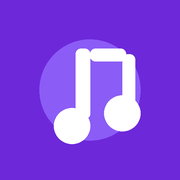
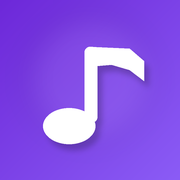
Add files via upload

diff --git a/index.html b/index.html
@@ -9,6 +9,7 @@
 <meta name="apple-mobile-web-app-title" content="ניגון">
 <link rel="manifest" href="manifest.webmanifest">
 <link rel="apple-touch-icon" sizes="180x180" href="apple-touch-icon.png">
+<link id="dynamicFavicon" rel="icon" href="icon-192.png">
 <title>ניגון — הנגן האישי שלך</title>
 <style>
 :root{
@@ -22,7 +23,7 @@ button,input,select{font:inherit}button{cursor:pointer}
 .hidden{display:none!important}.grow{flex:1}.row{display:flex;align-items:center;gap:10px}
 .auth{min-height:100vh;display:grid;place-items:center;padding:24px;background:radial-gradient(circle at 20% 10%,color-mix(in srgb,var(--accent) 24%,transparent),transparent 32%),var(--bg)}
 .authCard{width:min(480px,100%);background:var(--surface);border:1px solid var(--line);border-radius:32px;padding:24px;box-shadow:var(--shadow)}
-.logo{width:82px;height:82px;border-radius:25px;display:block;margin:auto;object-fit:cover;box-shadow:var(--shadow)}
+.logo{width:88px;height:88px;border-radius:28px;display:grid;place-items:center;margin:auto;box-shadow:var(--shadow);background:linear-gradient(145deg,var(--accent),var(--accent2));color:#fff;position:relative;overflow:hidden}.logo svg{width:62%;height:62%;filter:drop-shadow(0 5px 10px rgba(0,0,0,.14))}
 .auth h1{text-align:center;margin:14px 0 4px}.auth p{text-align:center;color:var(--muted);margin-top:0}
 .field{margin-top:12px}.field label{display:block;color:var(--muted);font-size:13px;margin-bottom:6px}.field input,.field select{width:100%;padding:13px;border:1px solid var(--line);background:var(--surface2);color:var(--text);border-radius:14px;outline:none}
 .primary{border:0;background:linear-gradient(135deg,var(--accent),var(--accent2));color:#fff;padding:13px 18px;border-radius:16px;font-weight:900}
@@ -50,15 +51,21 @@ main{max-width:1180px;margin:auto;padding:16px}
 .player{position:fixed;inset:0;z-index:70;background:var(--bg);display:none;overflow:auto;padding:calc(12px + var(--safeT)) 16px calc(20px + var(--safeB))}.player.show{display:block}.playerIn{max-width:650px;margin:auto}.playerMedia{width:min(86vw,500px);aspect-ratio:1;object-fit:cover;display:block;margin:22px auto;border-radius:32px;background:#000}.player h2{text-align:center}.seek{width:100%;accent-color:var(--accent)}.controls{display:flex;justify-content:center;align-items:center;gap:22px}.controls button{border:0;background:transparent;color:var(--text);font-size:24px}.controls .big{width:72px;height:72px;background:var(--accent);color:#fff;border-radius:50%}
 .lock{position:fixed;inset:0;z-index:100;background:#0b0810;color:#fff;display:none;place-items:center;padding:24px}.lock.show{display:grid}.lockBox{max-width:500px;text-align:center}.lockIcon{font-size:56px}.lockBox p{color:#c9c0cf;line-height:1.6}.dangerBtn{background:#b42318;color:#fff;border:0;padding:13px 18px;border-radius:16px;font-weight:900}
 .toast{position:fixed;z-index:120;top:calc(15px + var(--safeT));left:50%;transform:translateX(-50%);background:#17121d;color:#fff;border-radius:14px;padding:11px 15px;opacity:0;transition:.2s}.toast.show{opacity:1}
-@media(max-width:700px){.formGrid{grid-template-columns:1fr}.grid{grid-template-columns:repeat(2,minmax(0,1fr))}.themeChoices{grid-template-columns:1fr}.search{width:100%;order:3}.top{flex-wrap:wrap}.brand{flex:1}.hero h2{font-size:24px}}
+
+.brandWrap{display:flex;align-items:center;gap:18px;min-width:190px}.clock{direction:ltr;font-size:20px;font-weight:900;color:var(--text);margin-inline-start:auto}.avatar{overflow:hidden;background-size:cover;background-position:center}.bigAvatar{overflow:hidden;background-size:cover;background-position:center}.avatarUpload{display:flex;flex-direction:column;align-items:center;gap:6px;cursor:pointer}.avatarUpload span{font-size:11px;color:var(--accent);font-weight:800}.customColor{display:flex;align-items:center;justify-content:space-between;margin-top:14px;padding:12px 14px;background:var(--surface2);border-radius:16px;font-weight:800}.customColor input{width:54px;height:38px;border:0;background:transparent}.bottom{min-height:72px}.bottom button{display:flex;flex-direction:column;align-items:center;justify-content:center;gap:3px;font-weight:700}.navIcon{font-size:25px;line-height:26px;font-weight:800}.bottom button.active .navIcon{background:var(--accentSoft);padding:2px 17px;border-radius:999px}.themeChoices{grid-template-columns:repeat(3,minmax(0,1fr))}.themeChoice{min-width:0}.preview{height:86px}
+
+.nigunLogo{display:grid;place-items:center;background:linear-gradient(145deg,var(--accent),var(--accent2));color:#fff;overflow:hidden;box-shadow:var(--shadow)}.nigunLogo svg{width:62%;height:62%;filter:drop-shadow(0 4px 8px rgba(0,0,0,.16))}.headerLogo{width:46px;height:46px;border-radius:15px;flex:0 0 auto}.brandBlock{display:flex;align-items:center;gap:10px}.splash{position:fixed;inset:0;z-index:9999;background:var(--bg);display:grid;place-items:center;transition:opacity .45s ease,visibility .45s ease}.splash.hide{opacity:0;visibility:hidden}.splashInner{text-align:center;animation:splashIn .8s cubic-bezier(.2,.8,.2,1)}.splashLogo{width:112px;height:112px;border-radius:34px;margin:auto;animation:logoPulse 1.05s cubic-bezier(.2,.8,.2,1) both}.singleNote{overflow:visible}.splashTitle{font-size:34px;font-weight:950;margin-top:18px;letter-spacing:-.5px}.splashSub{color:var(--muted);margin-top:5px}.authCard{animation:cardIn .55s cubic-bezier(.2,.8,.2,1)}@keyframes splashIn{from{opacity:0;transform:translateY(18px) scale(.88)}to{opacity:1;transform:none}}@keyframes logoPulse{0%{transform:scale(.94);filter:drop-shadow(0 0 0 color-mix(in srgb,var(--accent) 0%,transparent))}55%{transform:scale(1.045);filter:drop-shadow(0 10px 24px color-mix(in srgb,var(--accent) 34%,transparent))}100%{transform:scale(1);filter:drop-shadow(0 6px 18px color-mix(in srgb,var(--accent) 24%,transparent))}}@keyframes cardIn{from{opacity:0;transform:translateY(14px)}to{opacity:1;transform:none}}
+@media(max-width:700px){.formGrid{grid-template-columns:1fr}.grid{grid-template-columns:repeat(2,minmax(0,1fr))}.themeChoices{grid-template-columns:repeat(3,minmax(0,1fr));gap:7px}.themeChoice{padding:6px}.preview{height:64px}.themeLabel{font-size:12px}.brandWrap{width:100%;min-width:0}.clock{font-size:18px}.search{width:100%;order:3}.top{flex-wrap:wrap}.brand{flex:1}.hero h2{font-size:24px}}
 @media(orientation:landscape) and (max-height:560px){.playerIn{max-width:1000px;display:grid;grid-template-columns:46% 1fr;gap:18px;align-items:center}.playerMedia{width:100%;margin:4px}.playerInfo{padding:10px}}
 </style>
 </head>
 <body>
+<div id="splash" class="splash"><div class="splashInner"><div class="nigunLogo splashLogo"><svg viewBox="0 0 100 100" aria-hidden="true" class="singleNote"><ellipse cx="35" cy="72" rx="16" ry="12" transform="rotate(-18 35 72)" fill="currentColor"/><rect x="47" y="24" width="8" height="50" rx="4" fill="currentColor"/><path d="M51 24 C70 24 82 31 82 43 C73 37 64 35 51 37 Z" fill="currentColor"/></svg></div><div class="splashTitle">ניגון</div><div class="splashSub">המוזיקה שלך. בדרך שלך.</div></div></div>
+
 
 <section id="authScreen" class="auth">
   <div class="authCard">
-    <img class="logo" src="icon-512.png" alt="לוגו ניגון"><h1>ניגון</h1><p>הנגן האישי והפרטי שלך</p>
+    <div class="logo nigunLogo" aria-label="לוגו ניגון"><svg viewBox="0 0 100 100" aria-hidden="true" class="singleNote"><ellipse cx="35" cy="72" rx="16" ry="12" transform="rotate(-18 35 72)" fill="currentColor"/><rect x="47" y="24" width="8" height="50" rx="4" fill="currentColor"/><path d="M51 24 C70 24 82 31 82 43 C73 37 64 35 51 37 Z" fill="currentColor"/></svg></div><h1>ניגון</h1><p>הנגן האישי והפרטי שלך</p>
     <div class="authTabs"><button id="loginTab" class="active">כניסה</button><button id="registerTab">הרשמה</button></div>
     <div id="loginForm">
       <div class="field"><label>מספר טלפון</label><input id="loginPhone" inputmode="tel" placeholder="05XXXXXXXX"></div>
@@ -76,7 +83,7 @@ main{max-width:1180px;margin:auto;padding:16px}
 </section>
 
 <section id="appScreen" class="app hidden">
-<header><div class="top"><img src="icon-192.png" alt="לוגו ניגון" style="width:44px;height:44px;border-radius:14px;object-fit:cover"><div><div class="brand">ניגון</div><div class="sub">הנגן האישי שלך</div></div><input id="search" class="search" placeholder="חיפוש שיר, אמן, אלבום..."><button id="profileBtn" class="avatar">א</button></div></header>
+<header><div class="top"><div class="brandBlock"><div class="nigunLogo headerLogo" aria-label="לוגו ניגון"><svg viewBox="0 0 100 100" aria-hidden="true" class="singleNote"><ellipse cx="35" cy="72" rx="16" ry="12" transform="rotate(-18 35 72)" fill="currentColor"/><rect x="47" y="24" width="8" height="50" rx="4" fill="currentColor"/><path d="M51 24 C70 24 82 31 82 43 C73 37 64 35 51 37 Z" fill="currentColor"/></svg></div><div><div class="brand">ניגון</div><div class="sub">הנגן האישי שלך</div></div></div><div id="clock" class="clock">--:--</div><input id="search" class="search" placeholder="חיפוש שיר, אמן, אלבום..."><button id="profileBtn" class="avatar">א</button></div></header>
 <main>
   <div class="tabs">
     <button class="tab active" data-tab="home">בית</button><button class="tab" data-tab="library">ספרייה</button><button class="tab" data-tab="playlists">פלייליסטים</button><button class="tab" data-tab="upload">העלאה</button><button class="tab" data-tab="settings">הגדרות</button>
@@ -111,7 +118,7 @@ main{max-width:1180px;margin:auto;padding:16px}
 
   <section id="settings" class="section">
     <div class="panel">
-      <div class="profileCard"><div id="bigAvatar" class="bigAvatar">א</div><div><strong id="profileName">—</strong><div id="profilePhone" class="sub">—</div></div><button id="logoutBtn" class="secondary">התנתקות</button></div>
+      <div class="profileCard"><label class="avatarUpload"><div id="bigAvatar" class="bigAvatar">א</div><input id="avatarFile" type="file" accept="image/*" hidden><span>שינוי תמונת פרופיל</span></label><div><strong id="profileName">—</strong><div id="profilePhone" class="sub">—</div></div><button id="logoutBtn" class="secondary">התנתקות</button></div>
 
       <div class="settingRow">
         <strong>מצב תצוגה</strong><div class="sub">בחר איך האפליקציה תיראה. התצוגות למטה מדמות את המסך.</div>
@@ -122,9 +129,11 @@ main{max-width:1180px;margin:auto;padding:16px}
         </div>
       </div>
 
-      <div class="settingRow"><strong>צבע האפליקציה</strong><div class="sub">בחר גוון ראשי לממשק</div><div id="palette" class="palette"></div></div>
+      <div class="settingRow"><strong>צבע האפליקציה</strong><div class="sub">בחר גוון או צור צבע בהתאמה אישית</div><div id="palette" class="palette"></div><label class="customColor">צבע בהתאמה אישית <input id="customColor" type="color" value="#6d28d9"></label></div>
 
       <div class="settingRow"><div class="row"><input id="kosherMode" type="checkbox"><label for="kosherMode"><strong>מצב סינון כשר</strong><div class="sub">קובץ שסומן כמוגבל יגרום לעצירת הנגן ולהצגת אזהרה.</div></label></div></div>
+
+      <div class="settingRow"><strong>מצב לא מקוון</strong><div class="sub">הורד את הספרייה למכשיר כדי לנגן גם במצב טיסה. שירים שכבר נוגנו נשמרים אוטומטית לאופליין כשיש מקום.</div><div class="row" style="margin-top:12px"><button id="downloadOffline" class="primary">הורד את כל הספרייה לאופליין</button><button id="clearOffline" class="secondary">נקה הורדות</button></div><div id="offlineStatus" class="sub" style="margin-top:10px">בודק אחסון…</div></div>
 
       <div class="settingRow"><strong>פרטיות</strong><div class="sub">הספרייה, המועדפים והפלייליסטים פרטיים ומופרדים לכל חשבון.</div></div>
     </div>
@@ -132,7 +141,7 @@ main{max-width:1180px;margin:auto;padding:16px}
 </main>
 
 <div id="mini" class="mini"><img id="miniCover" src="icon-192.png"><div class="grow" id="openPlayer"><div id="miniTitle" class="title">—</div><div id="miniArtist" class="sub">—</div></div><button id="prevMini">⏮</button><button id="playMini">▶</button><button id="nextMini">⏭</button></div>
-<nav class="bottom"><button data-tab="home" class="active">בית</button><button data-tab="library">ספרייה</button><button data-tab="playlists">פלייליסטים</button><button data-tab="upload">העלאה</button><button data-tab="settings">הגדרות</button></nav>
+<nav class="bottom"><button data-tab="home" class="active"><span class="navIcon">⌂</span><span>בית</span></button><button data-tab="library"><span class="navIcon">▤</span><span>ספרייה</span></button><button data-tab="playlists"><span class="navIcon">♫</span><span>פלייליסטים</span></button><button data-tab="upload"><span class="navIcon">＋</span><span>העלאה</span></button><button data-tab="settings"><span class="navIcon">⚙</span><span>הגדרות</span></button></nav>
 </section>
 
 <div id="player" class="player"><div class="playerIn"><div class="row"><button id="closePlayer" class="secondary">חזרה</button><div class="grow"></div><button id="favBtn" class="secondary">♡</button></div><img id="playerCover" class="playerMedia" src="icon-512.png"><video id="videoEl" class="playerMedia" controls playsinline style="display:none"></video><div class="playerInfo"><h2 id="playerTitle">—</h2><div id="playerArtist" class="sub" style="text-align:center">—</div><input id="seek" class="seek" type="range" min="0" max="1000" value="0"><div class="row sub"><span id="cur">0:00</span><span class="grow"></span><span id="dur">0:00</span></div><div class="controls"><button id="prev">⏮</button><button id="play" class="big">▶</button><button id="next">⏭</button></div></div></div></div>
